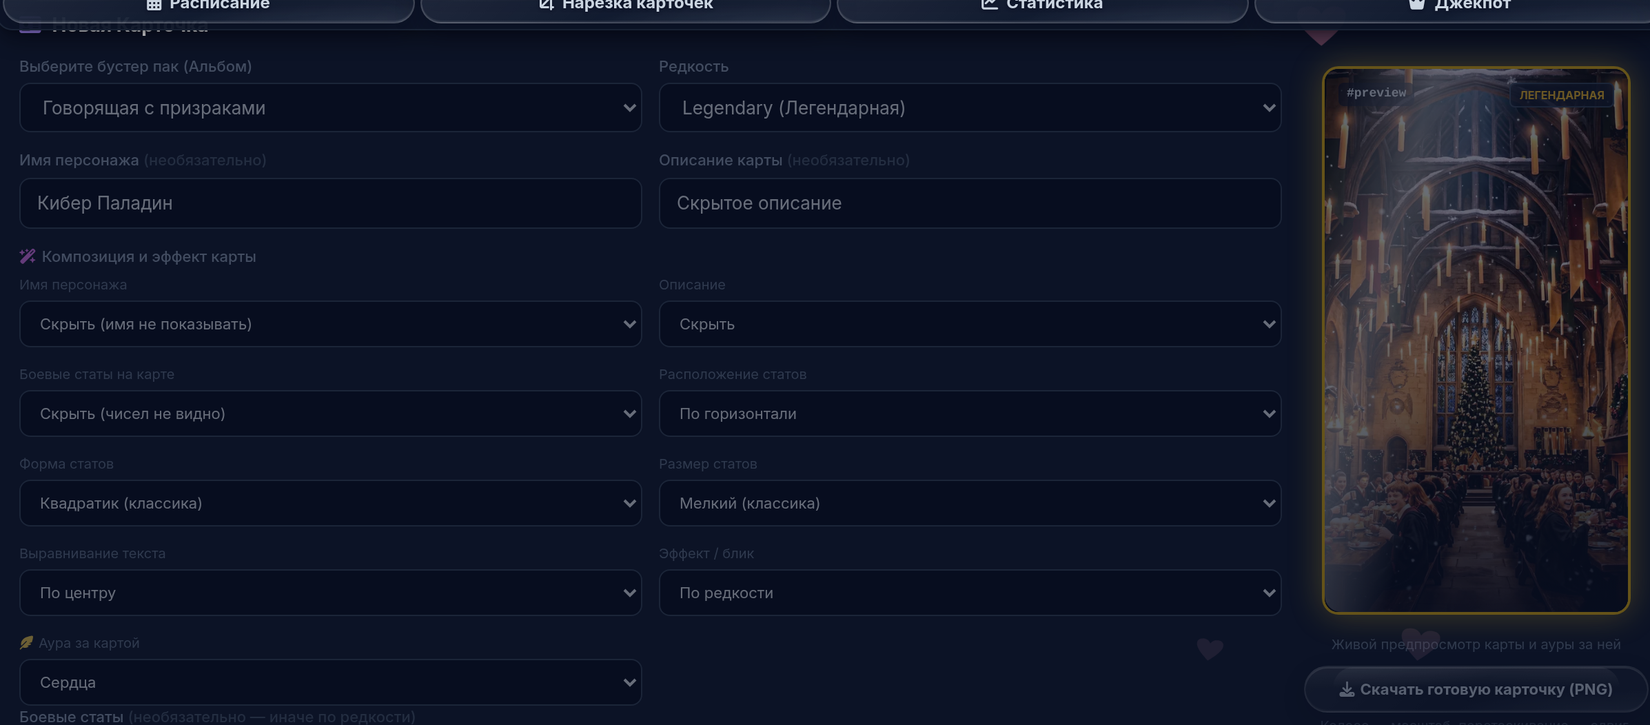
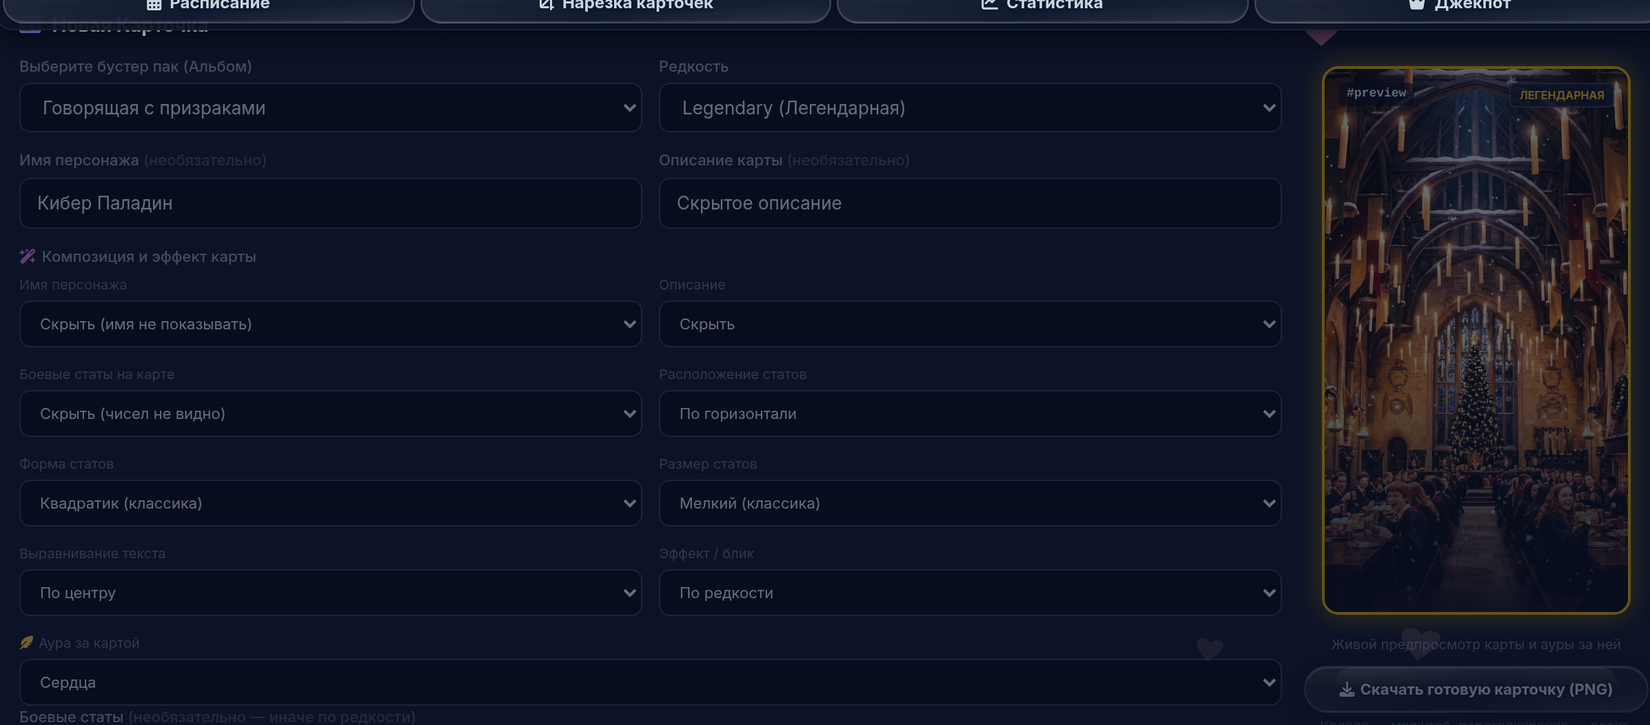
b480: аура на всю строку сетки композиции — пустой ячейки в форме нет; тег nxmob224

Changed region(s): [[0.8037, 0.0913, 0.8964, 0.8517]]

diff --git a/tools/test-b480.js b/tools/test-b480.js
@@ -1,0 +1,109 @@
+/* b480: убрать пустую ячейку в сетке «Композиция и эффект карты».
+
+   Владелец (со скриншотом, дырка обведена красным): «не должно быть пустое
+   место». Селекторов композиции девять (b475–b478), поэтому в двухколоночной
+   сетке десятая ячейка пустовала рядом с «Аура за картой». Аура растянута на
+   всю строку: style="grid-column:1 / -1".
+
+   A. Разметка/теги: обёртка ауры несет grid-column:1 / -1 и содержит
+      #card-aura; в сетке композиции девять селекторов и ровно одна ячейка
+      во всю ширину (дырки нет); все селекторов b475–b478 на месте; тег
+      nxmob224 единый.
+   B. Поведение (jsdom): форма живая — предпросмотр рисуется, аура
+      применяется к превью и к контейнеру ауры; редактирование карты
+      восстанавливает ауру.
+
+   Запуск:  JSDOM_PATH=/tmp/t/node_modules/jsdom NODE_PATH=/tmp/t/node_modules node tools/test-b480.js
+*/
+const fs = require('fs');
+const path = require('path');
+const { JSDOM } = require(process.env.JSDOM_PATH || '/tmp/t/node_modules/jsdom');
+
+const ROOT = path.join(__dirname, '..');
+let fails = 0, checks = 0;
+const ok = (c, m) => { checks++; console.log((c ? '  ✅ ' : '  ❌ ') + m); if (!c) fails++; };
+const eq = (a, b, m) => ok(a === b, m + '  → ' + a + (a === b ? '' : ' (ждём ' + b + ')'));
+
+function boot() {
+    const html = fs.readFileSync(path.join(ROOT, 'index.html'), 'utf8');
+    const dom = new JSDOM(html, { runScripts: 'dangerously', pretendToBeVisual: true, url: 'https://d3nizkeller.github.io/card-collection/' });
+    const w = dom.window;
+    dom.virtualConsole.on('jsdomError', () => {});
+    w.HTMLCanvasElement.prototype.getContext = () => null;
+    w.HTMLMediaElement.prototype.play = function () { return Promise.resolve(); };
+    w.HTMLMediaElement.prototype.pause = function () {};
+    Object.defineProperty(w, 'fetch', { value: () => Promise.resolve({ ok: false, status: 0, text: () => Promise.resolve(''), json: () => Promise.resolve(null) }), configurable: true });
+    w.navigator.sendBeacon = () => true;
+    w.IntersectionObserver = class { observe() {} unobserve() {} disconnect() {} };
+    w.ResizeObserver = class { observe() {} unobserve() {} disconnect() {} };
+    w.matchMedia = w.matchMedia || (q => ({ matches: false, media: q, addListener() {}, removeListener() {}, addEventListener() {}, removeEventListener() {} }));
+    w.THREE = new Proxy({}, { get: () => function () { return {}; } });
+    const sc = w.document.createElement('script');
+    sc.textContent = fs.readFileSync(path.join(ROOT, 'assets', 'app.js'), 'utf8');
+    w.document.body.appendChild(sc);
+    return { w, ev: s => w.eval(s), doc: w.document };
+}
+
+(async () => {
+    console.log('A. Разметка сетки композиции и теги');
+    {
+        const html = fs.readFileSync(path.join(ROOT, 'index.html'), 'utf8');
+        const sw = fs.readFileSync(path.join(ROOT, 'sw.js'), 'utf8');
+        const bp = fs.readFileSync(path.join(ROOT, 'tools', 'build.py'), 'utf8');
+
+        ok(/<!-- b480: аура занимает всю строку сетки композиции:/.test(html), 'перенос ауры на всю строку помечен комментарием b480');
+        ok(/<div style="grid-column:1 \/ -1">\s*<span class="block text-\[10px\] text-slate-500 mb-1"><i class="fa-solid fa-feather-pointed[^>]*><\/i>Аура за картой<\/span>/.test(html), 'обёртка «Аура за картой» растянута на всю строку (grid-column:1 / -1)');
+        ok(!/class="[^"]*col-span-2/.test(html.slice(html.indexOf('id="card-name-pos"'), html.indexOf('id="card-image-lamp"'))), 'класса col-span-2 в композиции нет — только инлайн grid-column');
+        ok(/style="grid-column:1 \/ -1"/.test(html.slice(html.indexOf('id="card-name-pos"'), html.indexOf('id="card-image-lamp"'))), 'растянутая ячейка задана инлайн-стилем grid-column');
+
+        const tag = (sw.match(/const VERSION = '(nxmob\d+)';/) || [])[1];
+        eq(tag, 'nxmob224', 'sw.js: боевой тег nxmob224');
+        eq((html.match(new RegExp(tag, 'g')) || []).length, 8, 'index.html: тег во всех 8 ссылках на assets');
+        ok(bp.includes("BUILD_TAG = 'nxmob224'"), 'tools/build.py: BUILD_TAG = nxmob224');
+        ['card-name-pos', 'card-desc-pos', 'card-stats-pos', 'card-stats-dir', 'card-stats-shape', 'card-stats-size', 'card-align', 'card-shine', 'card-aura'].forEach(id =>
+            ok(html.includes('id="' + id + '"'), 'селектор ' + id + ' на месте'));
+    }
+
+    const G = boot();
+    const w = G.w, ev = G.ev, doc = G.doc;
+
+    console.log('\nB. Сетка без дырки (живой DOM)');
+    {
+        const g = JSON.parse(ev(`(function () {
+            const grid = document.getElementById('card-name-pos').closest('.grid');
+            const kids = Array.from(grid.children);
+            const spanned = kids.filter(k => (k.getAttribute('style') || '').indexOf('grid-column') >= 0);
+            return JSON.stringify({
+                kids: kids.length,
+                spanned: spanned.length,
+                spanHasAura: spanned.length === 1 && !!spanned[0].querySelector('#card-aura'),
+                selects: grid.querySelectorAll('select').length,
+                rows: (kids.length - spanned.length) / 2 + spanned.length,
+            });
+        })()`));
+        eq(g.kids, 9, 'в сетке композиции девять ячеек (селекторов)');
+        eq(g.spanned, 1, 'ровно одна ячейка во всю ширину');
+        eq(g.spanHasAura, true, 'во всю ширину — именно «Аура за картой»');
+        eq(g.selects, 9, 'все девять селекторов живы');
+        eq(g.rows, 5, 'четыре полных строки + одна во всю ширину: пустых ячеек нет');
+    }
+
+    console.log('\nC. Форма живая');
+    {
+        ev(`(function () {
+            document.getElementById('card-name').value = 'Тест';
+            document.getElementById('card-image').value = 'https://example.com/a.png';
+            document.getElementById('card-aura').value = 'hearts';
+            renderCardPreview();
+        })()`);
+        await new Promise(r => setTimeout(r, 300));
+        const prev = doc.getElementById('card-preview').innerHTML;
+        ok(prev.length > 100, 'предпросмотр рисуется после правки сетки');
+        const aura = doc.getElementById('card-preview-aura');
+        ok(aura && /aura-hearts/.test(aura.className), 'аура из полноширинного селекта применяется к превью');
+        eq(ev(`document.getElementById('card-aura').value`), 'hearts', 'селект ауры доступен и читается');
+    }
+
+    console.log('\n' + (fails ? '❌ ПРОВАЛОВ: ' + fails + ' из ' + checks : '✅ Все проверки пройдены: ' + checks));
+    process.exit(fails ? 1 : 0);
+})().catch(e => { console.error('ТЕСТ УПАЛ:', e && e.stack || e); process.exit(2); });

diff --git a/index.html b/index.html
@@ -24,20 +24,20 @@
     <!-- Мобильная сборка nxmob24: тяжёлые библиотеки вынесены в assets/ и кешируются -->
     <link rel="preconnect" href="https://fonts.gstatic.com" crossorigin>
     <!-- three.js нужен только в 3D-режимах и только по клику: defer не блокирует парсинг -->
-    <script src="assets/three.min.js?v=nxmob223" defer></script>
-    <link rel="stylesheet" href="assets/fa.css?v=nxmob223">
+    <script src="assets/three.min.js?v=nxmob224" defer></script>
+    <link rel="stylesheet" href="assets/fa.css?v=nxmob224">
     <!-- Inter грузится НЕ блокируя отрисовку: fonts.googleapis.com может быть
          недоступен, и раньше страница висела до таймаута сети -->
     <link rel="stylesheet" media="print" onload="this.media='all'"
           href="https://fonts.googleapis.com/css2?family=Inter:wght@300;400;500;600;700;800&display=swap">
     <noscript><link rel="stylesheet" href="https://fonts.googleapis.com/css2?family=Inter:wght@300;400;500;600;700;800&display=swap"></noscript>
-    <link rel="stylesheet" href="assets/app.css?v=nxmob223">
+    <link rel="stylesheet" href="assets/app.css?v=nxmob224">
     <!-- ПРЕДКОМПИЛИРОВАННЫЙ Tailwind. Раньше здесь работал Tailwind Play CDN:
          JIT-компилятор + PostCSS выполнялись В БРАУЗЕРЕ и пересобирали весь CSS
          при каждой мутации DOM (~550 мс холодного прогона). На телефоне это
          блокировало главный поток во время анимаций — отсюда подвисания и
          закрытие WebView. Теперь CSS статический, а JS-компилятора нет вовсе. -->
-    <link id="nx-tw-css" rel="stylesheet" href="assets/tailwind.css?v=nxmob223">
+    <link id="nx-tw-css" rel="stylesheet" href="assets/tailwind.css?v=nxmob224">
 </head>
 <body class="bg-slate-950 text-slate-100 min-h-screen flex flex-col selection:bg-violet-500 selection:text-white">
 
@@ -1362,7 +1362,12 @@
                                         </optgroup>
                                     </select>
                                 </div>
-                                <div>
+                                <!-- b480: аура занимает всю строку сетки композиции:
+                                     селекторов стало девять (b475–b478), и десятая ячейка
+                                     оставалась пустой дырой рядом с аурой (скриншот владельца).
+                                     Инлайн-стиль, потому что col-span-2 нет в прекомпилированном
+                                     tailwind.css; длинному списку аур полная ширина удобнее. -->
+                                <div style="grid-column:1 / -1">
                                     <span class="block text-[10px] text-slate-500 mb-1"><i class="fa-solid fa-feather-pointed text-amber-300 mr-1"></i>Аура за картой</span>
                                     <select id="card-aura" onchange="renderCardPreviewSoon()" class="w-full bg-slate-950 border border-slate-700 rounded-lg px-2.5 py-2 text-[11px] focus:outline-none focus:border-fuchsia-500">
                                         <optgroup label="База">
@@ -3126,10 +3131,10 @@ min-height:56vh}
     <div id="confetti-container"></div>
 
     <!-- Код игры. Внешний файл: кешируется отдельно от разметки. -->
-    <script src="assets/app.js?v=nxmob223"></script>
-    <script src="assets/stories.js?v=nxmob223"></script>
-    <script src="assets/qrcode.min.js?v=nxmob223"></script>
-    <script src="assets/qr-transfer.js?v=nxmob223"></script>
+    <script src="assets/app.js?v=nxmob224"></script>
+    <script src="assets/stories.js?v=nxmob224"></script>
+    <script src="assets/qrcode.min.js?v=nxmob224"></script>
+    <script src="assets/qr-transfer.js?v=nxmob224"></script>
     <script>
 // ===== Telegram Mini App / мобильная стабилизация (tools/build.py) =====
 (function () {

diff --git a/tools/test-b479.js b/tools/test-b479.js
@@ -70,10 +70,13 @@ function boot() {
         ok(/title="[^"]*номер #N/.test(btn), 'в title кнопки перечислено, что попадёт в файл');
         ok(fa.includes('fa-download'), 'глиф fa-download есть в сабсете fa.css');
 
-        eq((html.match(/nxmob223/g) || []).length, 8, 'index.html: тег nxmob223 во всех 8 ссылках на assets');
-        ok(!html.includes('nxmob222'), 'index.html: старого тега nxmob222 не осталось');
-        ok(sw.includes("const VERSION = 'nxmob223';"), 'sw.js: VERSION = nxmob223');
-        ok(bp.includes("BUILD_TAG = 'nxmob223'"), 'tools/build.py: BUILD_TAG = nxmob223');
+        // b480: номер тега не прибиваем к b479 — проверяем единство: боевой тег из
+        // sw.js повторён во всех 8 ссылках index.html и равен BUILD_TAG, не ниже nxmob223
+        const tag = (sw.match(/const VERSION = '(nxmob\d+)';/) || [])[1];
+        ok(!!tag, 'sw.js: боевой тег на месте (' + tag + ')');
+        eq((html.match(new RegExp(tag, 'g')) || []).length, 8, 'index.html: тег из sw.js во всех 8 ссылках на assets');
+        ok(bp.includes("BUILD_TAG = '" + tag + "'"), 'tools/build.py: BUILD_TAG равен тегу из sw.js');
+        ok(Number((tag || '0').replace('nxmob', '')) >= 223, 'тег не ниже nxmob223');
     }
 
     console.log('\nB. Исходники assets/app.js');

diff --git a/sw.js b/sw.js
@@ -2,7 +2,7 @@
    Арты и скрипты скачиваются с сервера ОДИН раз на браузер; дальше отдаются из
    кэша мгновенно — в Telegram Mini App повторное открытие становится мгновенным
    и работает без сети. Тихая сверка с сервером — не чаще раза в 7 дней на файл. */
-const VERSION = 'nxmob223';
+const VERSION = 'nxmob224';
 const CACHE_MEDIA = 'nx-media-v2';
 const CACHE_ASSETS = 'nx-assets-' + VERSION;
 const CACHE_PAGES = 'nx-pages-' + VERSION;

diff --git a/tools/_b480_patch.py b/tools/_b480_patch.py
@@ -1,0 +1,99 @@
+#!/usr/bin/env python3
+# -*- coding: utf-8 -*-
+"""b480: убрать пустую ячейку в сетке «Композиция и эффект карты».
+
+Заявка владельца (со скриншотом формы, дырка обведена красным): «не должно быть
+пустое место».
+
+Разбор
+------
+Селектов композиции стало девять: имя, описание, статы-место (b475),
+статы-расположение и статы-форма (b477), статы-размер (b478), выравнивание,
+эффект и аура. Двухколоночная сетка grid grid-cols-2 с девятью ячейками
+оставляет десятую пустой — рядом с «Аура за картой» (скриншот владельца).
+
+Лечение
+-------
+«Аура за картой» растягивается на всю строку сетки: style="grid-column:1 / -1"
+(инлайн, потому что утилиты col-span-2 нет в прекомпилированном
+assets/tailwind.css — прецедент b376). Девять ячеек = четыре полных строки +
+одна во всю ширину: дырки нет, а длинному списку аур полная ширина даже
+удобнее. Порядок селекторов не менялся.
+
+Менялся только index.html — тег сборки nxmob223 -> nxmob224.
+
+Проверка/применение:
+    python3 tools/_b480_patch.py --check
+    python3 tools/_b480_patch.py
+"""
+import io
+import os
+import sys
+
+ROOT = os.path.dirname(os.path.dirname(os.path.abspath(__file__)))
+
+TAG_OLD = 'nxmob223'
+TAG_NEW = 'nxmob224'
+TAG_FILES = ['index.html', 'sw.js', 'tools/build.py']
+
+PAIRS = []
+
+PAIRS.append(('index.html', 1,
+              r'''                                <div>
+                                    <span class="block text-[10px] text-slate-500 mb-1"><i class="fa-solid fa-feather-pointed text-amber-300 mr-1"></i>Аура за картой</span>''',
+              r'''                                <!-- b480: аура занимает всю строку сетки композиции:
+                                     селекторов стало девять (b475–b478), и десятая ячейка
+                                     оставалась пустой дырой рядом с аурой (скриншот владельца).
+                                     Инлайн-стиль, потому что col-span-2 нет в прекомпилированном
+                                     tailwind.css; длинному списку аур полная ширина удобнее. -->
+                                <div style="grid-column:1 / -1">
+                                    <span class="block text-[10px] text-slate-500 mb-1"><i class="fa-solid fa-feather-pointed text-amber-300 mr-1"></i>Аура за картой</span>'''))
+
+
+def read(rel):
+    with io.open(os.path.join(ROOT, rel), encoding='utf-8') as f:
+        return f.read()
+
+
+def write(rel, txt):
+    with io.open(os.path.join(ROOT, rel), 'w', encoding='utf-8', newline='') as f:
+        f.write(txt)
+
+
+def main():
+    files = {}
+    problems = []
+    for rel, cnt, old, new in PAIRS:
+        txt = files.get(rel) or read(rel)
+        o, n = old.strip('\n'), new.strip('\n')
+        if n in txt:
+            problems.append('%s: правка уже применена: %s...' % (rel, o[:60]))
+            continue
+        if txt.count(o) != cnt:
+            problems.append('%s: якорь встретился %d раз вместо %d: %s...' % (rel, txt.count(o), cnt, o[:60]))
+            continue
+        files[rel] = txt.replace(o, n, 1)
+    for rel in TAG_FILES:
+        txt = files.get(rel) or read(rel)
+        if TAG_NEW in txt:
+            problems.append('%s: тег уже %s' % (rel, TAG_NEW))
+            continue
+        if TAG_OLD not in txt:
+            problems.append('%s: нет тега %s' % (rel, TAG_OLD))
+            continue
+        files[rel] = txt.replace(TAG_OLD, TAG_NEW)
+    if problems:
+        for p in problems:
+            print('ПРОБЛЕМА:', p)
+        return 1
+    if '--check' in sys.argv:
+        print('b480: якоря (%d) и тег %s на месте, можно применять' % (len(PAIRS), TAG_OLD))
+        return 0
+    for rel, txt in files.items():
+        write(rel, txt)
+    print('b480: аура на всю строку — пустой ячейки в композиции нет; тег %s -> %s' % (TAG_OLD, TAG_NEW))
+    return 0
+
+
+if __name__ == '__main__':
+    sys.exit(main())

diff --git a/tools/build.py b/tools/build.py
@@ -37,7 +37,7 @@ THUMBS = os.path.join(MEDIA, 't')
 MIDS = os.path.join(MEDIA, 't2')
 BIGS = os.path.join(MEDIA, 't3')   # b438: «большой» уровень — просмотр карты, галерея
 
-BUILD_TAG = 'nxmob223'          # b382: защита будущих карт: меморизация отсутствующих миниатюр, --report, cron в CI — клиенты должны перечитать app.js
+BUILD_TAG = 'nxmob224'          # b382: защита будущих карт: меморизация отсутствующих миниатюр, --report, cron в CI — клиенты должны перечитать app.js
 THUMB_W = 256                 # мелкая миниатюра (списки, компактные сетки), px
 THUMB_Q = 72
 MID_W = 512                   # средняя (обычные сетки, вскрытие пака), px

diff --git a/FIXES.md b/FIXES.md
@@ -6169,3 +6169,44 @@ regex под вызов `cardStatsHtml(card, L)`, в b478 тег сделан с
 Якоря — `tools/_b479_patch.py` (3: 2 в `assets/app.js`, 1 в `index.html` +
 тег в трёх файлах; `--check` до применения прошёл, повторное применение
 отклоняется).
+
+---
+
+## b480: убрана пустая ячейка в сетке «Композиция и эффект карты»
+
+**Заявка владельца (скриншот формы, дырка обведена красным).** «Не должно быть
+пустое место».
+
+### Разбор
+
+Селекторов композиции стало девять: имя, описание, статы-место (b475),
+статы-расположение и статы-форма (b477), статы-размер (b478), выравнивание,
+эффект и аура. В двухколоночной сетке `grid grid-cols-2` девятая ячейка
+(«Аура за картой») оставалась одна в строке — справа зияла пустая дырка
+(ровно то место, что обведено на скриншоте).
+
+### Лечение
+
+«Аура за картой» растянута на всю строку: `style="grid-column:1 / -1"` на
+обёртке (`index.html:1365`). Инлайн-стиль, потому что утилиты `col-span-2`
+нет в прекомпилированном `assets/tailwind.css` (прецедент b376). Итог:
+четыре полных строки + одна во всю ширину — пустых ячеек нет; длинному списку
+аур (42 варианта) полная ширина даже удобнее. Порядок селекторов и их
+`onchange="renderCardPreviewSoon()"` не менялись.
+
+Менялся только `index.html`. Тег сборки nxmob223 → nxmob224 (`index.html` ×8,
+`sw.js`, `tools/build.py`).
+
+### Проверено
+
+`tools/test-b480.js` (jsdom) — **24 проверки, 0 провалов**: обёртка ауры несёт
+`grid-column:1 / -1` и содержит `#card-aura`; в сетке девять ячеек и ровно
+одна во всю ширину (итог пять строк без дырки); класса `col-span-2` в
+композиции нет; все девять селекторов b475–b478 на месте; тег nxmob224
+единый; форма живая — предпросмотр рисуется, аура из полноширинного селекта
+применяется к превью. Прогоны b475–b479: 84/33/81/42/43 — зелёные (в b479
+проверка тега сделана сквозной). Скриншоты формы пересняты:
+`tools/shots/b475-studio-compose.png`, `b475-mobile-form.png`.
+
+Якоря — `tools/_b480_patch.py` (1 якорь в `index.html` + тег в трёх файлах;
+`--check` до применения прошёл, повторное применение отклоняется).
